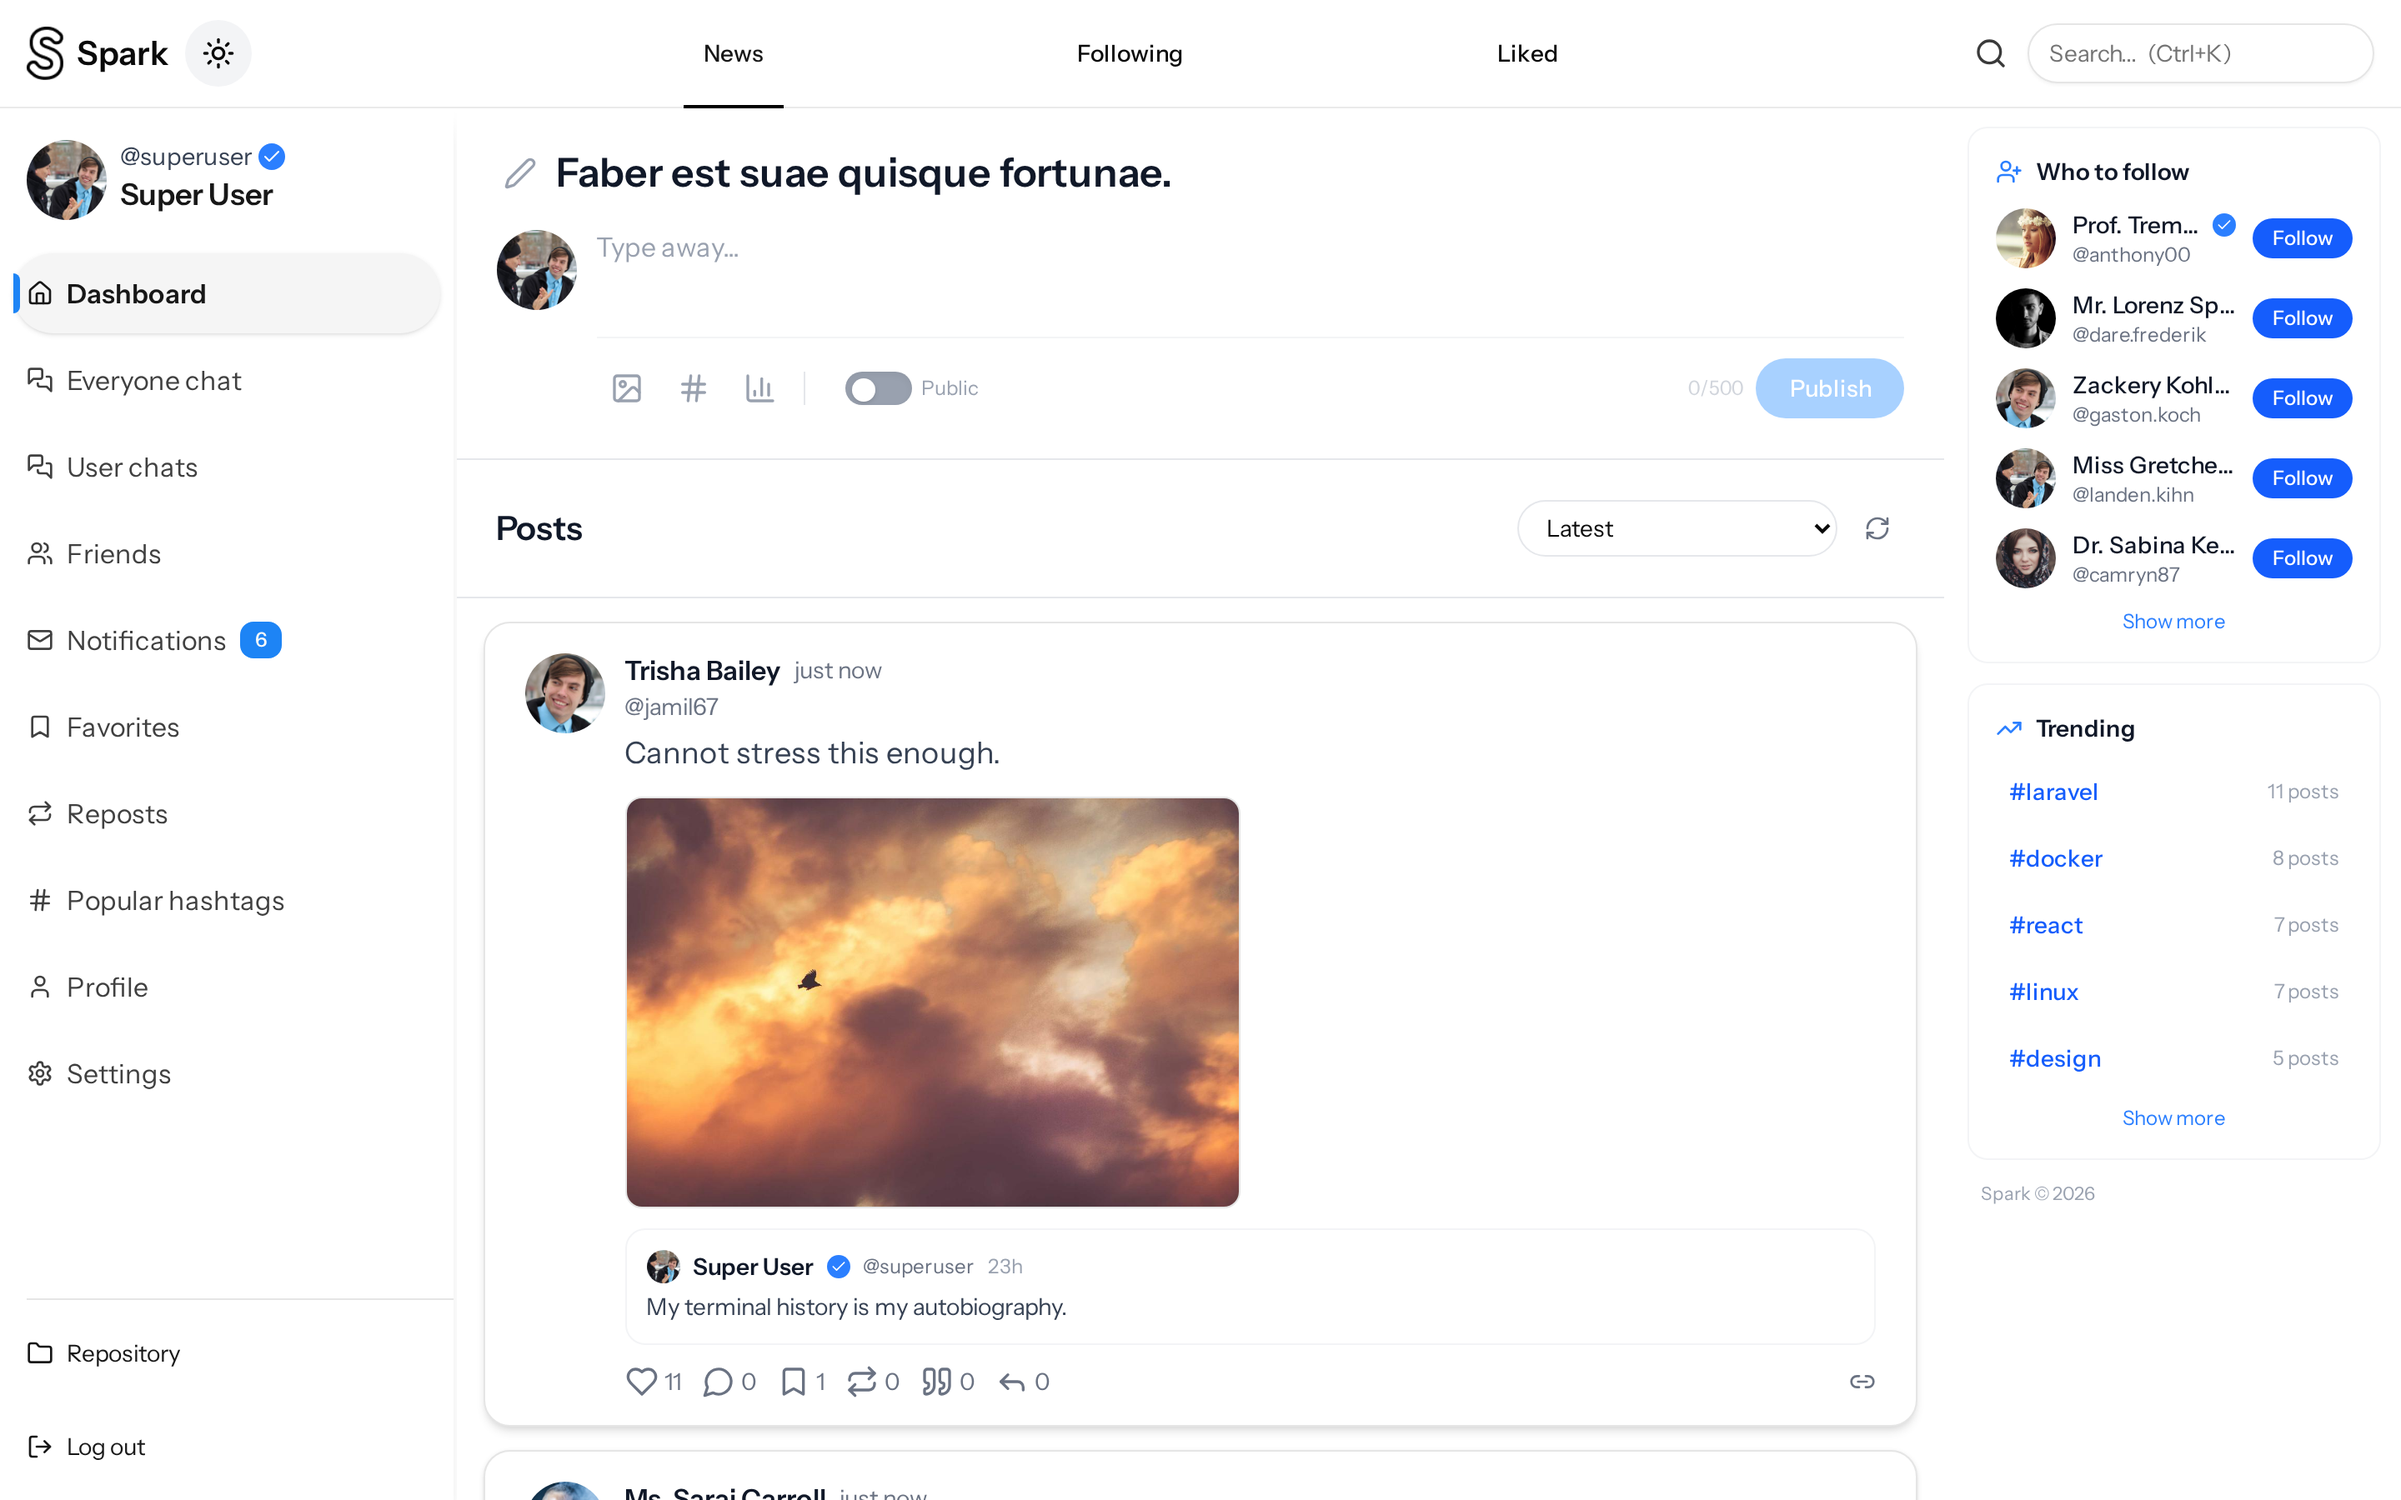
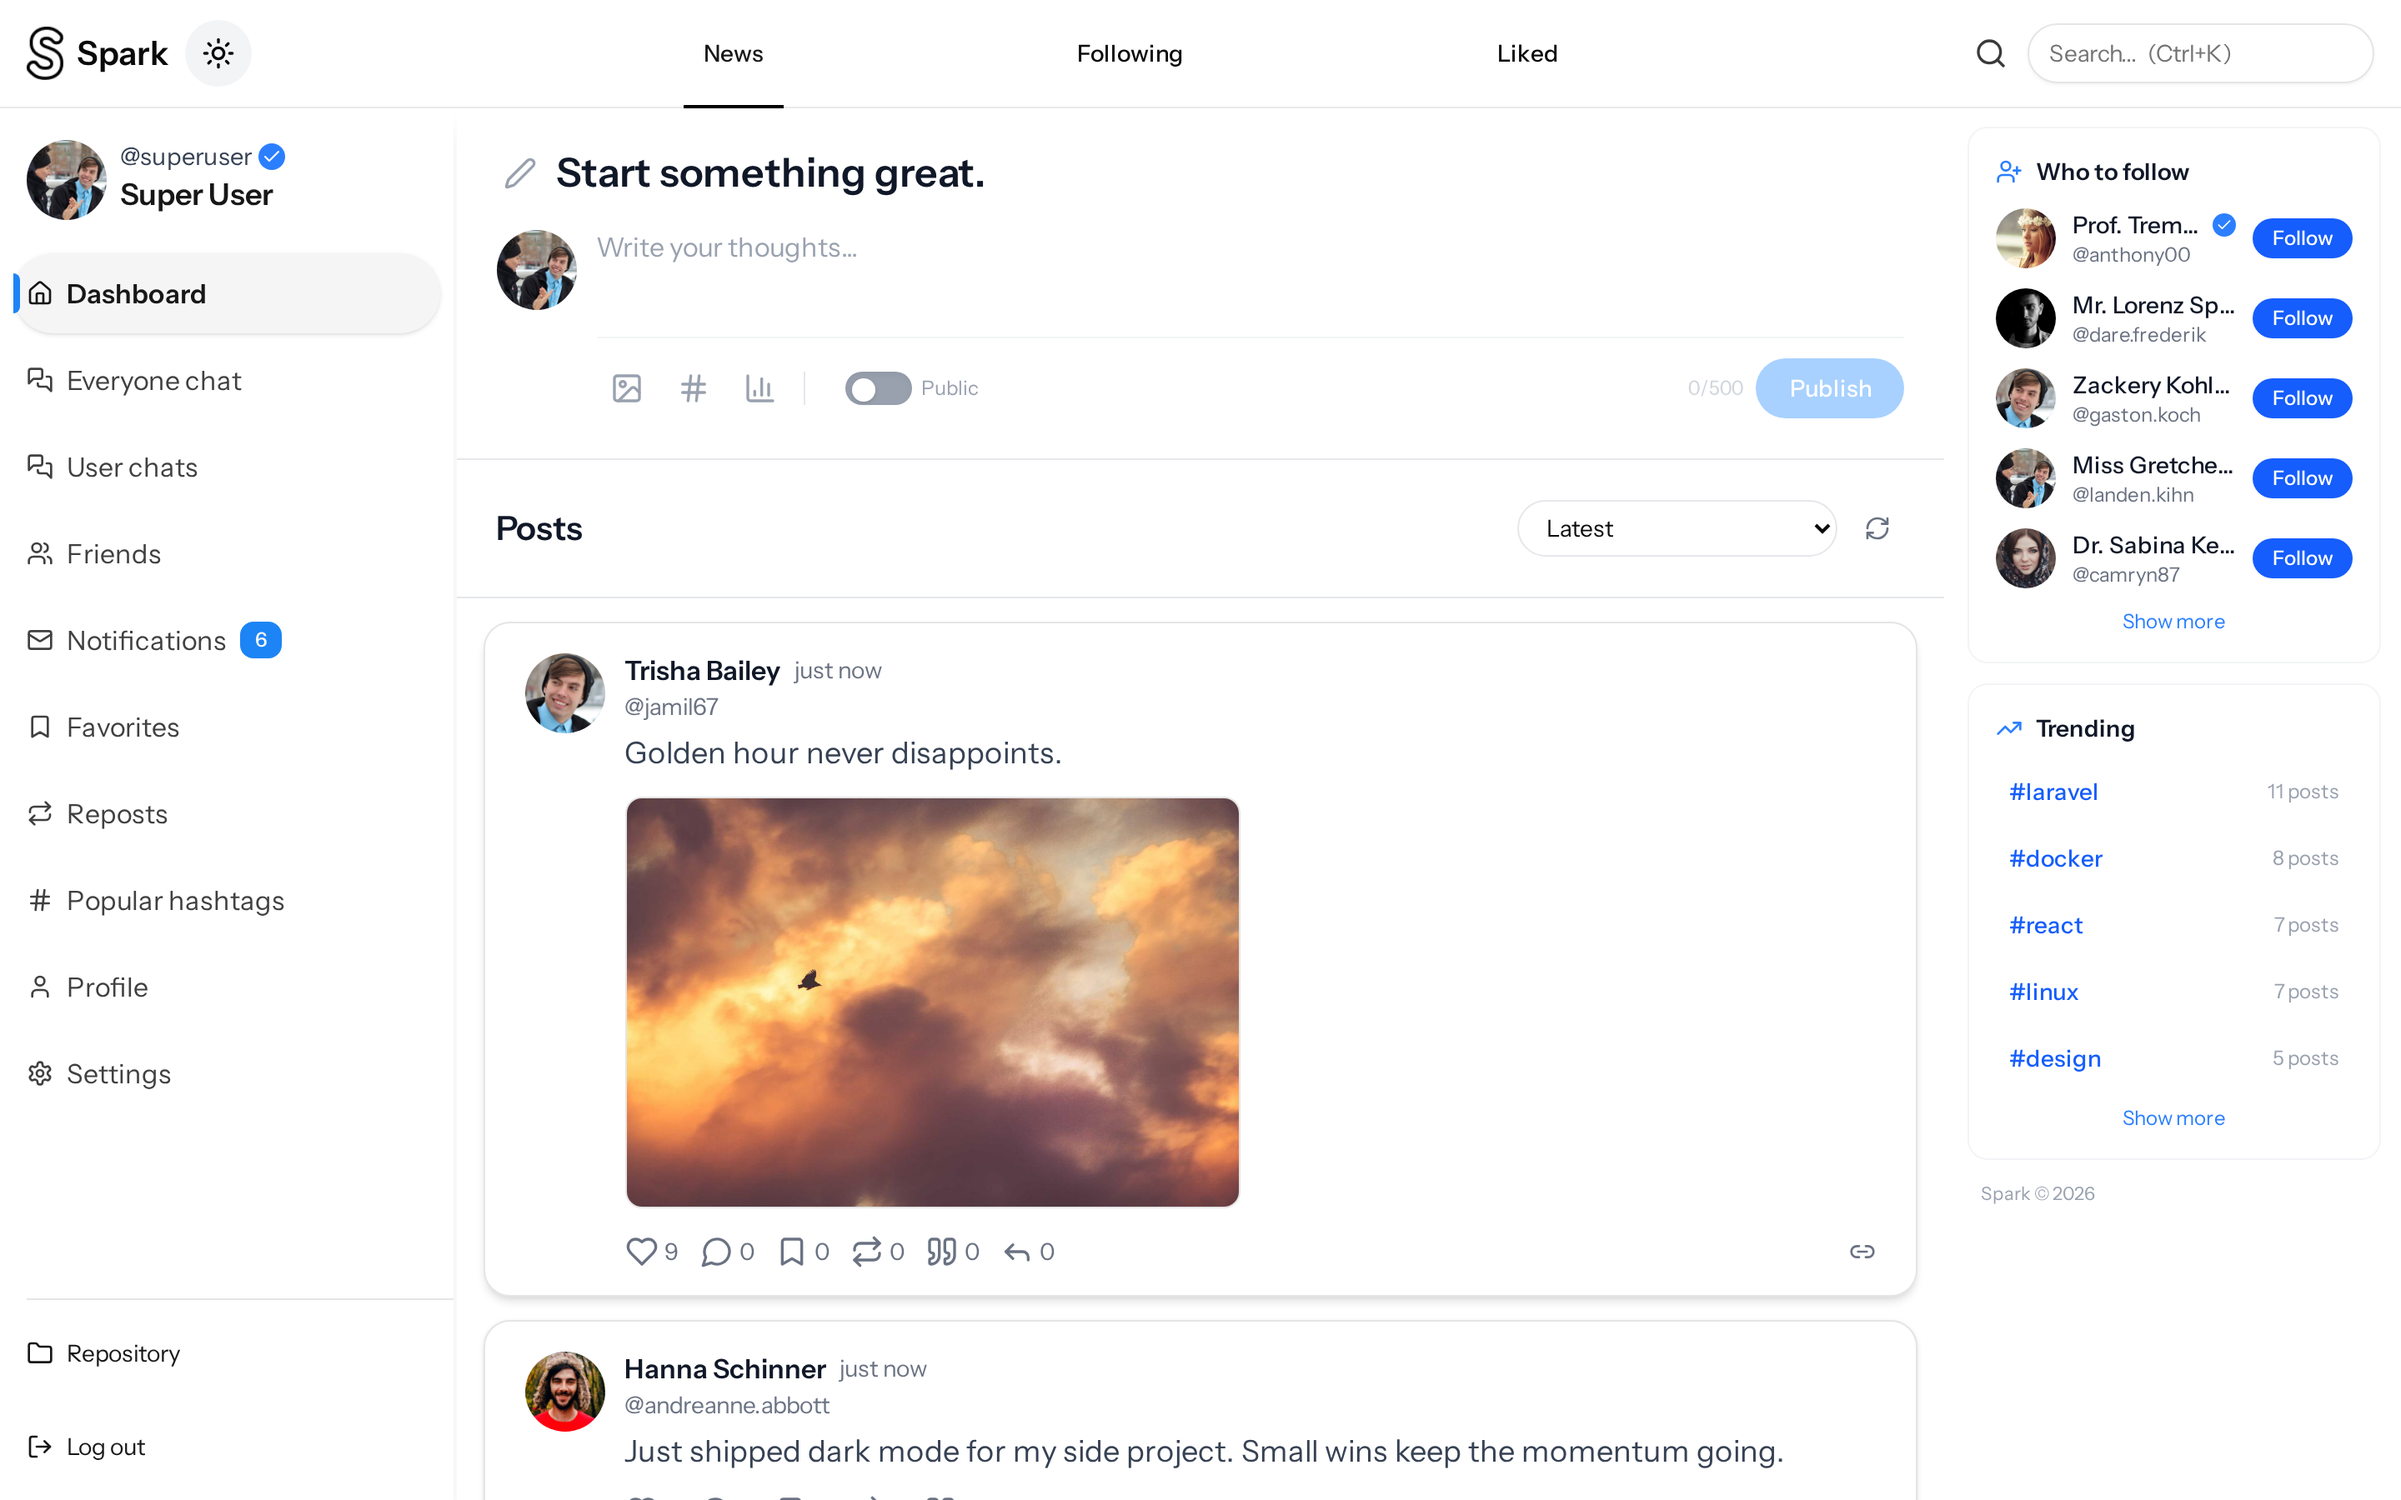
Expand README screenshots to cover all major pages
Adds polls, direct messages, group chat, hashtag feed, friends,
register, favorites, and dark-mode captures, organized by feature
area. Feed captures restaged with simpler, friendlier content.

diff --git a/README.md b/README.md
@@ -26,25 +26,58 @@ Spark is a Twitter/X-style social network that goes beyond a simple clone. It su
 
 ## Screenshots
 
+### Home feed — light & dark
+
 <p align="center">
-  <img src="screenshots/feed.png" alt="Home feed" width="100%" />
+  <img src="screenshots/feed.png" alt="Home feed (light)" width="100%" />
+</p>
+<p align="center">
+  <img src="screenshots/feed-dark.png" alt="Home feed (dark)" width="100%" />
 </p>
 
-| Profile | Post detail |
-|---------|-------------|
-| ![Profile](screenshots/profile.png) | ![Post detail](screenshots/post-detail.png) |
+### Profiles & posts
 
-| Real-time chat | Notifications |
-|----------------|---------------|
-| ![Chat](screenshots/chat.png) | ![Notifications](screenshots/notifications.png) |
+| Profile | Profile (dark) |
+|---------|----------------|
+| ![Profile](screenshots/profile.png) | ![Profile dark](screenshots/profile-dark.png) |
 
-| Search | User discovery |
-|--------|----------------|
-| ![Search](screenshots/search.png) | ![Users](screenshots/users.png) |
+| Post detail | Polls |
+|-------------|-------|
+| ![Post detail](screenshots/post-detail.png) | ![Polls](screenshots/polls.png) |
 
-| Landing page | Login |
-|--------------|-------|
-| ![Welcome](screenshots/welcome.png) | ![Login](screenshots/login.png) |
+### Messaging — public, direct & group
+
+| Public chat | Direct messages |
+|-------------|-----------------|
+| ![Public chat](screenshots/chat.png) | ![Direct messages](screenshots/direct-messages.png) |
+
+| Group chat | Notifications |
+|------------|---------------|
+| ![Group chat](screenshots/group-chat.png) | ![Notifications](screenshots/notifications.png) |
+
+### Discovery
+
+| Search | Hashtag feed |
+|--------|--------------|
+| ![Search](screenshots/search.png) | ![Hashtag feed](screenshots/hashtag.png) |
+
+| User discovery | Friends |
+|----------------|---------|
+| ![Users](screenshots/users.png) | ![Friends](screenshots/friends.png) |
+
+### Onboarding & settings
+
+<p align="center">
+  <img src="screenshots/welcome.png" alt="Landing page" width="100%" />
+</p>
+
+| Login | Register |
+|-------|----------|
+| ![Login](screenshots/login.png) | ![Register](screenshots/register.png) |
+
+| Profile settings | Favorites |
+|------------------|-----------|
+| ![Settings](screenshots/settings.png) | ![Favorites](screenshots/favorites.png) |
 
 ## Features
 
